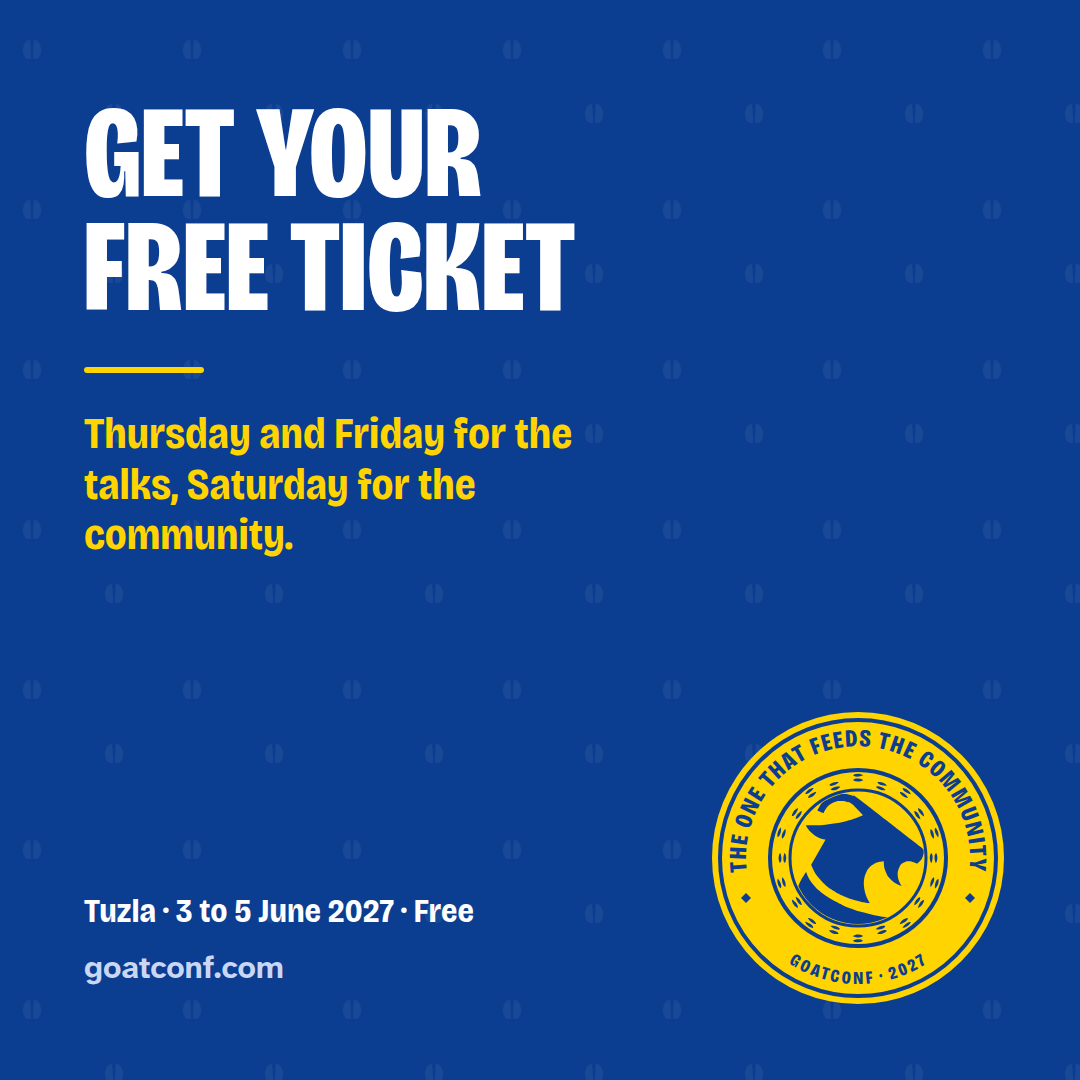
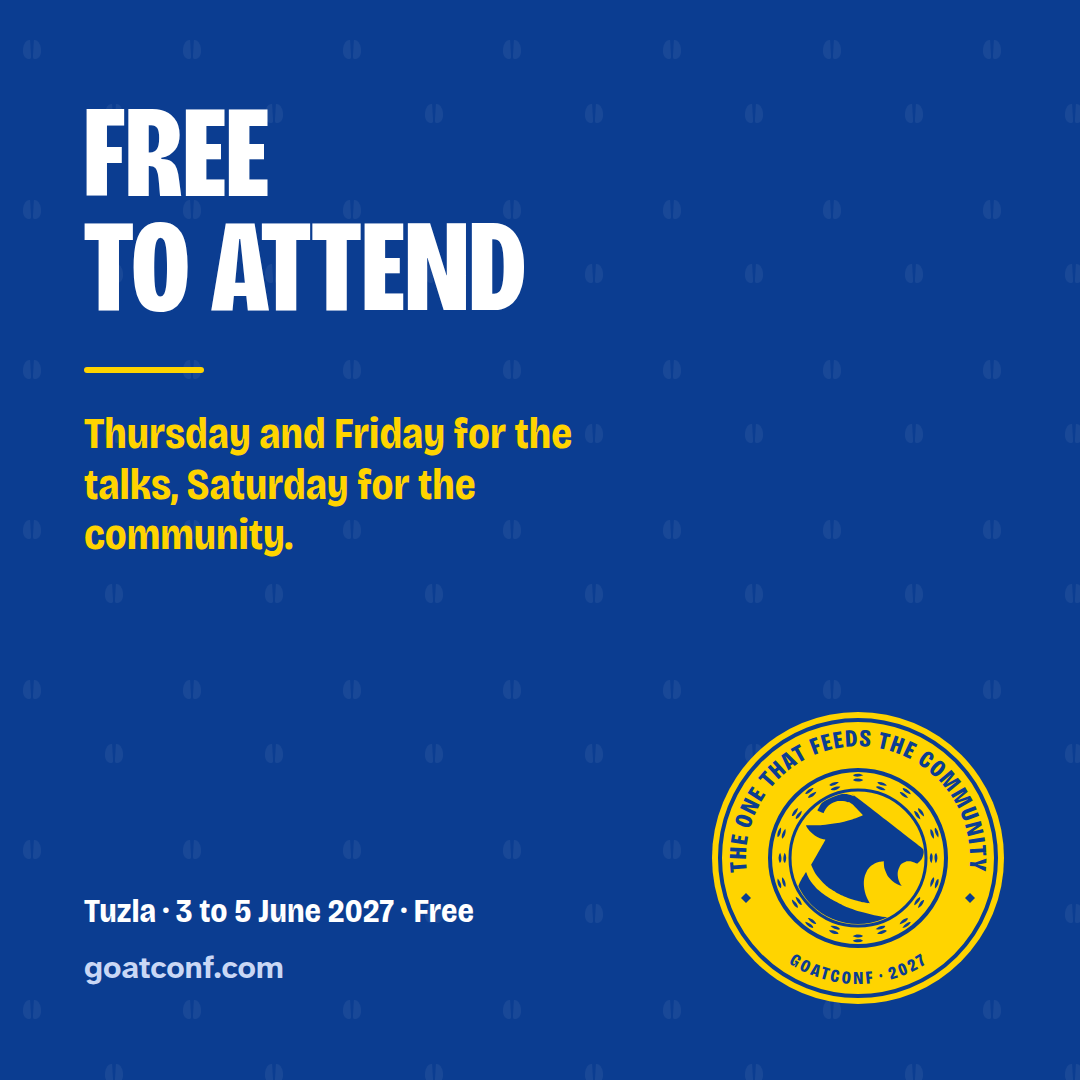
site: say "free to attend", with a free ticket
The headline wording on the home page, the register page, the register
share image, llms.txt and the week 3 drumbeat drafts is now "Free to
attend"; each still says a ticket is needed and is free.

Source: sources/conversations/2026-10-12--org--free-to-attend.md.

Changed region(s): [[0.0611, 0.0917, 0.55, 0.3056]]

diff --git a/files/site/index.html b/files/site/index.html
@@ -82,7 +82,7 @@
   <div class="spread__page" aria-labelledby="decided-title">
     <h2 class="page-title" id="decided-title">What is decided</h2>
     <div class="slots slots--hero">
-      <div class="sticker sticker--fact" data-peel style="--tilt:-2deg"><span class="num">1</span><strong>Free</strong><small>Free tickets.</small></div>
+      <div class="sticker sticker--fact" data-peel style="--tilt:-2deg"><span class="num">1</span><strong>Free to attend</strong><small>You need a ticket. It is free.</small></div>
       <figure class="sticker sticker--photo sticker--place" data-peel style="--tilt:1.5deg"><span class="num">2</span><img src="img/city-square-mosque-summer.jpg" width="1800" height="1195" alt="Freedom Square in Tuzla in summer, the mosque's minaret above the colourful houses"><figcaption>Tuzla</figcaption></figure>
       <div class="sticker sticker--fact" data-peel style="--tilt:1deg"><span class="num">3</span><strong>3 to 5 June</strong><small>2027, Thursday to Saturday.</small></div>
       <figure class="sticker sticker--photo" data-peel style="--tilt:-1.5deg"><span class="num">4</span><img src="img/ipi-lecture-hall.jpg" width="1024" height="768" alt="A talk in IPI Academy's lecture hall, students' faces blurred"><figcaption>IPI Academy</figcaption></figure>

diff --git a/files/site/register.html b/files/site/register.html
@@ -55,8 +55,8 @@
 <!-- /topbar -->
 <header class="page-head">
   <img class="page-head__photo" src="img/city-square-fountain-summer.jpg" width="1640" height="924" alt="The fountain on Freedom Square on a summer day, café umbrellas behind it" decoding="async">
-  <h1 class="sign">Get your free ticket</h1>
-  <p class="lede">Tickets are free. Leave your name and email, and we will see you in Tuzla.</p>
+  <h1 class="sign">Free to attend</h1>
+  <p class="lede">You need a ticket, and it is free. Leave your name and email, and we will see you in Tuzla.</p>
 </header>
 <main id="main" class="prose">
 <p class="cta"><a class="button" data-form="register" href="https://luma.com/event/evt-dU4KbLhpIAm9Y9V" data-luma-action="checkout" data-luma-event-id="evt-dU4KbLhpIAm9Y9V">Register for free</a><span>Open now, on Luma. It takes a minute.</span></p>

diff --git a/files/tools/agents.py b/files/tools/agents.py
@@ -54,7 +54,7 @@ EVENT = {
 FACTS = [
     "Dates: Thursday 3 and Friday 4 June 2027 are talk days; Saturday 5 June 2027 is the community day.",
     "Place: IPI Academy, Kulina bana 2, 75000 Tuzla, Bosnia and Herzegovina, next to Freedom Square (Trg slobode).",
-    "Price: tickets are free. Registration asks only for a name and an email, on Luma.",
+    "Price: free to attend, with a free ticket. Registration asks only for a name and an email, on Luma.",
     "Format: one-hour talks, panels and workshops in all seven rooms of IPI Academy, with an hour off after each slot. Each session has its own free registration on Luma that saves a seat up to the room's size, with a waiting list when full; empty seats go to whoever is at the door when it starts.",
     "Friday starts half an hour earlier, so the hour off at 12:30 covers Džuma prayer.",
     "Saturday has no talks: it is for events people add, such as the Pannonian salt lakes, the goat hunt, walks and meetups.",

diff --git a/files/tools/shareables.py b/files/tools/shareables.py
@@ -108,7 +108,7 @@ def post(w: int, h: int, title: str, line: str, square: bool) -> str:
 POSTS = {
     "save-the-date": ("Save<br>the date", "Two days of talks in every room of IPI Academy, then a day for the community."),
     "call-for-talks": ("The call<br>for talks<br>is open", "One hour, one room, an audience. No strict deadline."),
-    "register": ("Get your<br>free ticket", "Thursday and Friday for the talks, Saturday for the community."),
+    "register": ("Free<br>to attend", "Thursday and Friday for the talks, Saturday for the community."),
     "add-something": ("Add<br>something", "A workshop, a meetup, a dinner, a hike: run it around GoatConf."),
 }
 

diff --git a/files/wiki/org/outreach/drumbeat.md b/files/wiki/org/outreach/drumbeat.md
@@ -77,7 +77,7 @@ The story in week 5 follows the EuRuKo 2024 account of the goat (source: sources
 - **Image:** `post-register-square.png`, `post-register-wide.png`
 - **LinkedIn:**
 
-  > Registration for GoatConf 2027 is open, and tickets are free.
+  > Registration for GoatConf 2027 is open. It is free to attend: you only need a free ticket.
   >
   > Come for the talks on Thursday 3 and Friday 4 June at IPI Academy in Tuzla, and stay for Saturday at the salt lakes. Seats are first come, first served at each room's door, and every session is followed by an hour off on Freedom Square.
   >
@@ -85,7 +85,7 @@ The story in week 5 follows the EuRuKo 2024 account of the goat (source: sources
 
 - **Short:**
 
-  > Registration for GoatConf 2027 is open, and tickets are free. Talks on 3 and 4 June at IPI Academy, Tuzla, then a day at the salt lakes. Register in a minute: goatconf.com/register.html
+  > GoatConf 2027 is free to attend: get your free ticket. Talks on 3 and 4 June at IPI Academy, Tuzla, then a day at the salt lakes. Register in a minute: goatconf.com/register.html
 
 ### Week 4: Add something to GoatConf
 

diff --git a/files/sources/conversations/2026-10-12--org--free-to-attend.md b/files/sources/conversations/2026-10-12--org--free-to-attend.md
@@ -1,0 +1,11 @@
+---
+title: "The wording is \"free to attend\", with a ticket"
+date: 2026-10-12
+kind: conversation
+---
+
+Right after asking for tickets instead of "no ticket", the organiser wrote, verbatim:
+
+> Free to attend *
+
+Read as a correction of the wording: the headline is "Free to attend"; a ticket is still needed, and it is free.
